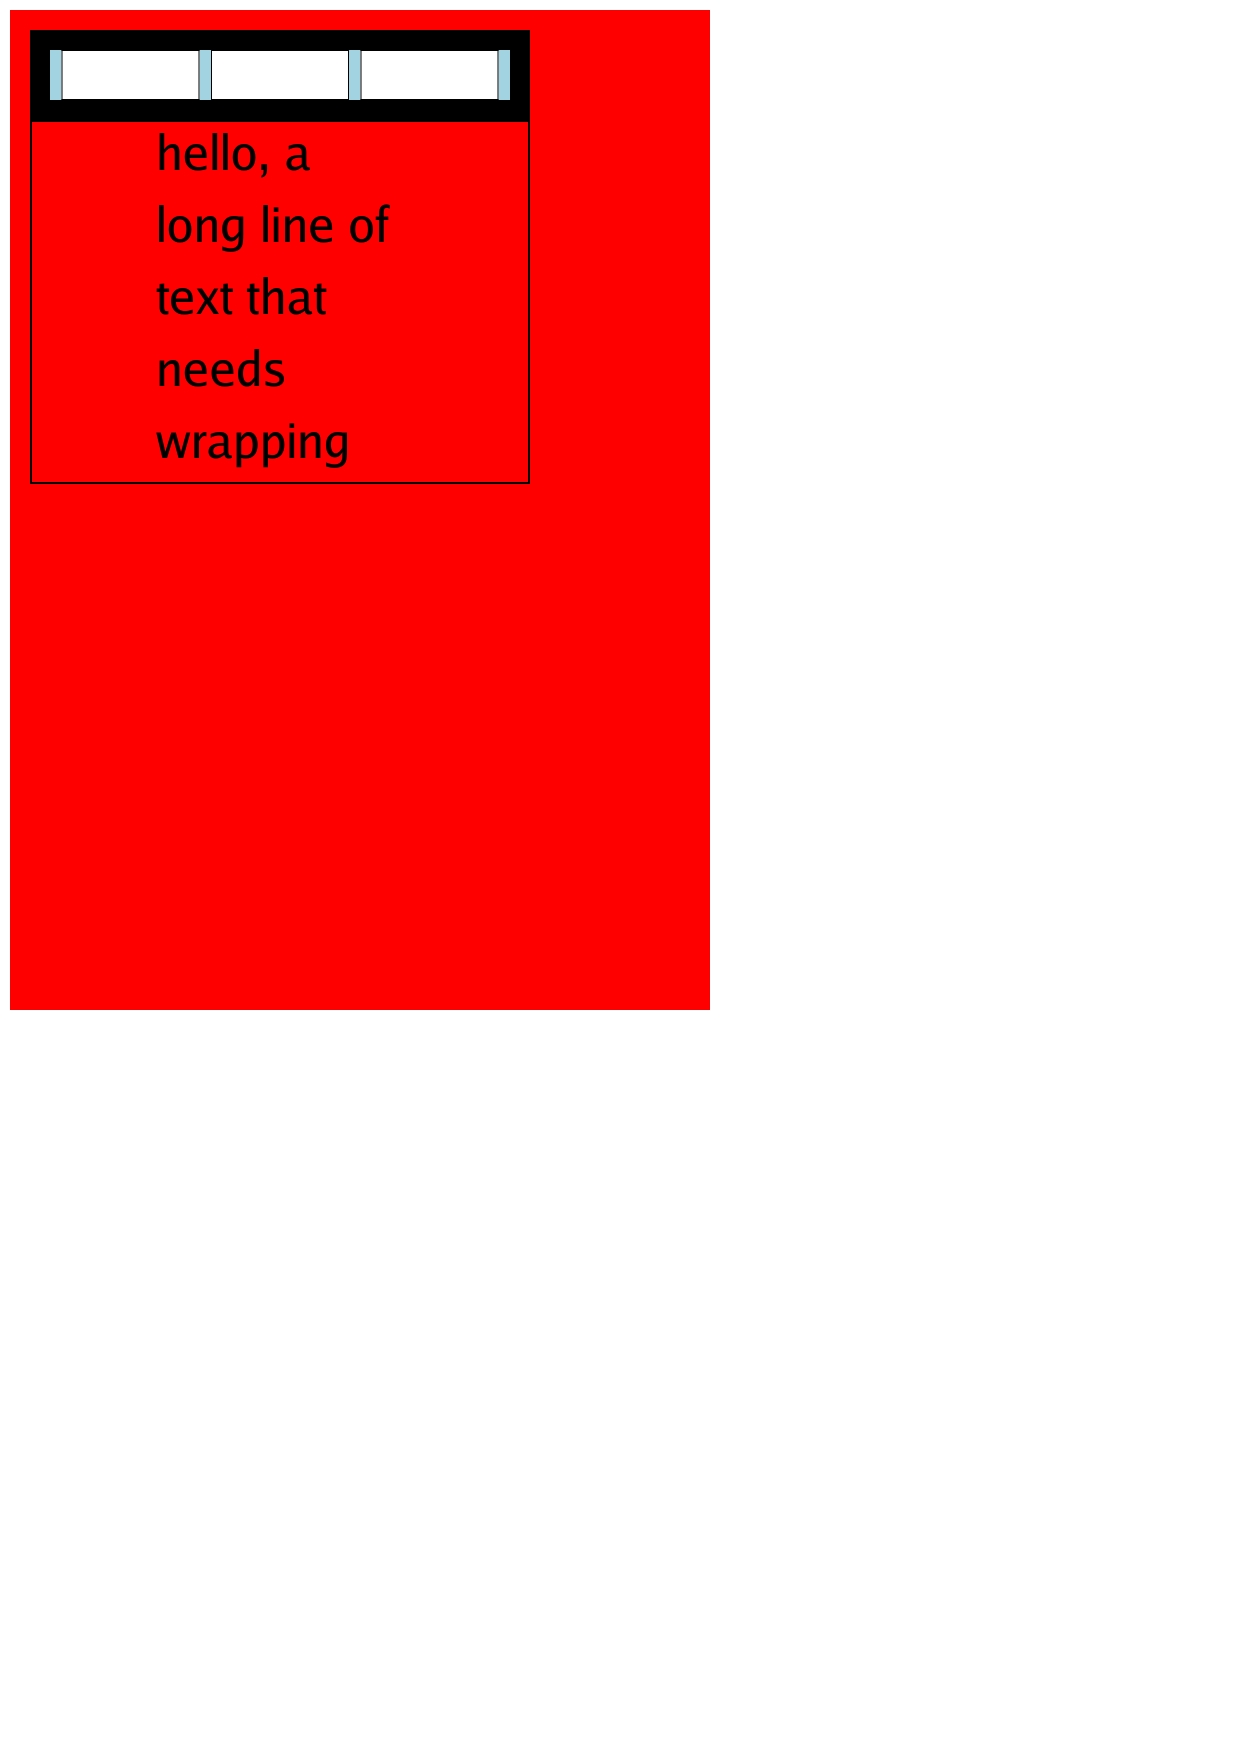
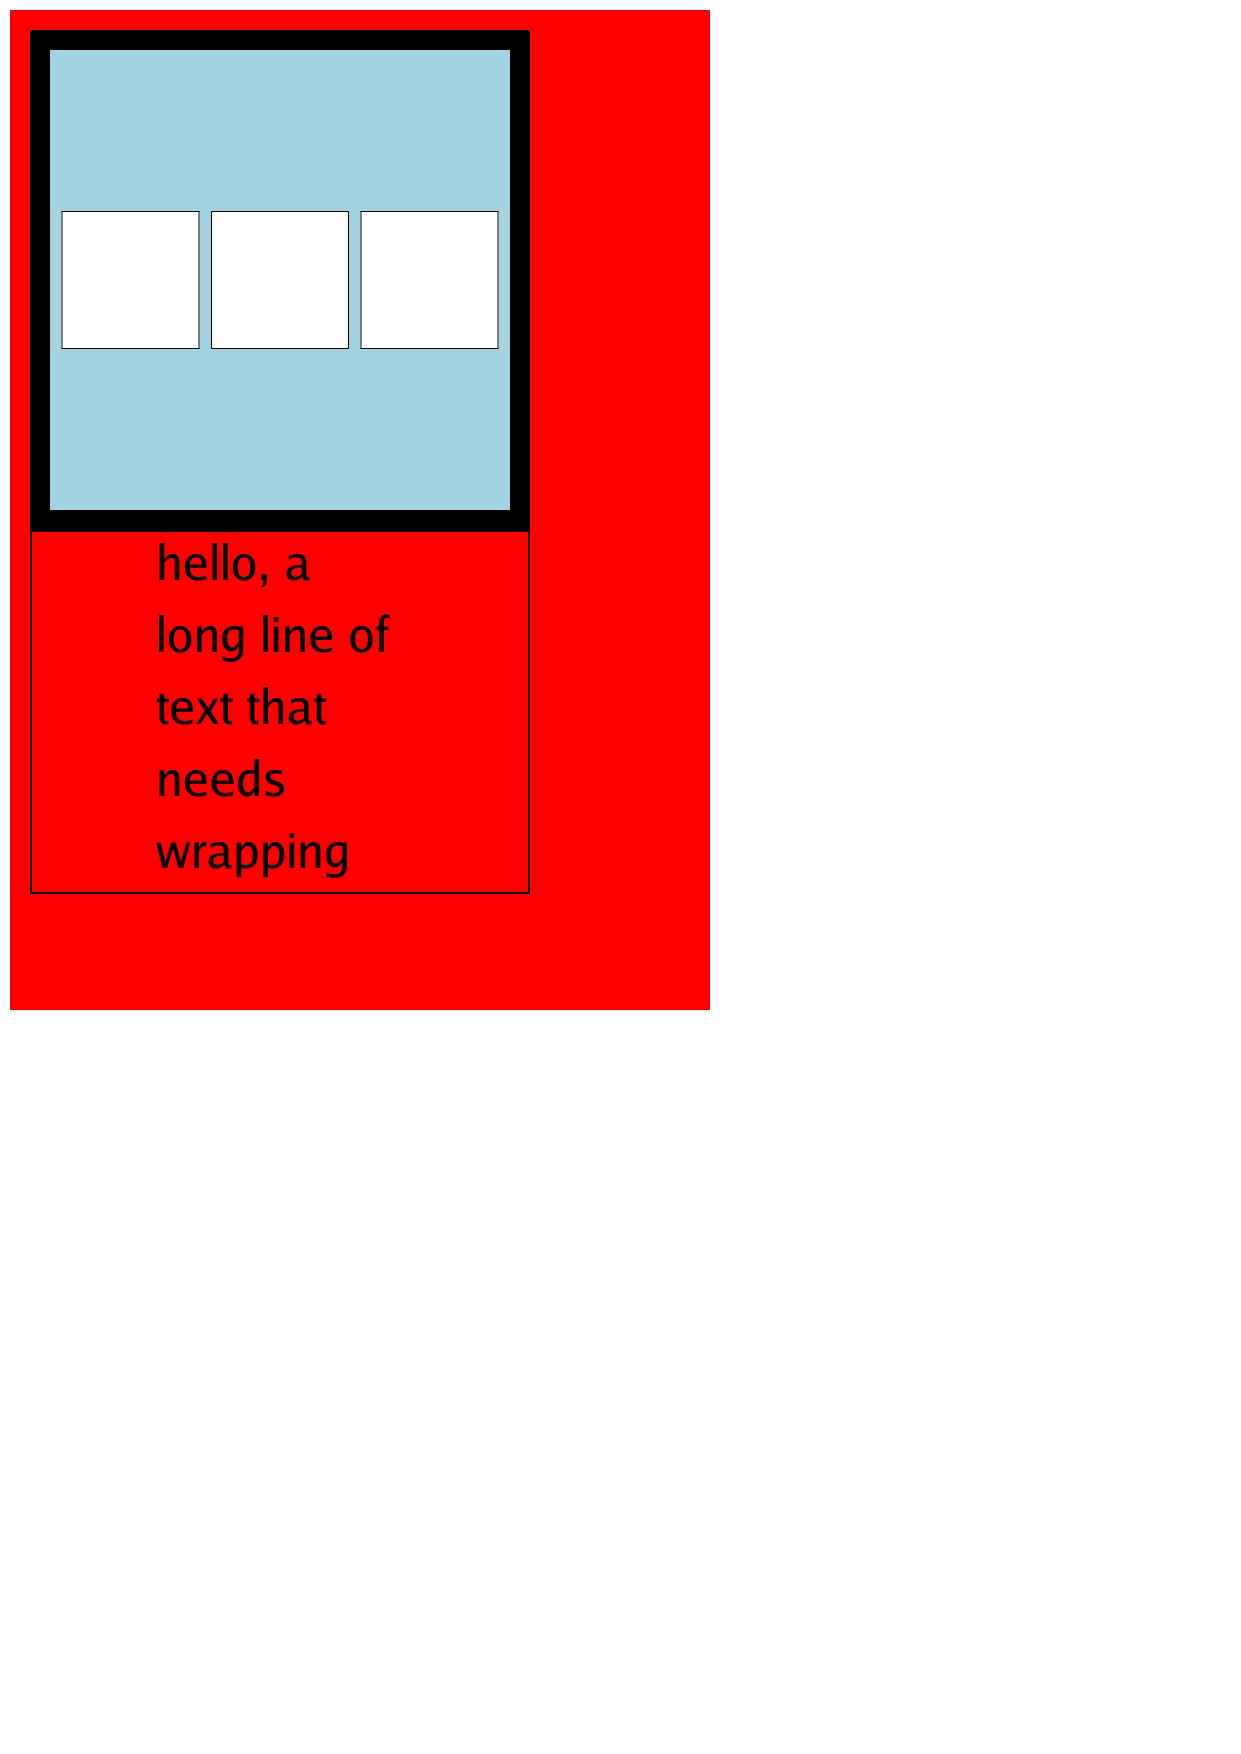
fix for border

Changed region(s): [[0.0, 0.0308, 0.4287, 0.5234]]

diff --git a/pkg/drawing/draw.go b/pkg/drawing/draw.go
@@ -24,7 +24,7 @@ func Draw() {
 	outer.borderColor = BLACK
 	outer.justifyContent = JustifyStart
 
-	middle := newContainer(500, 0, context)
+	middle := newContainer(500, 500, context)
 	middle.layout = Row
 	middle.backgroundColor = CYAN
 	middle.borderColor = BLACK
@@ -56,7 +56,7 @@ func Draw() {
 func createChildren(n int, container *Container) {
 	var children = make([]Displayable, n)
 	for i := 0; i < n; i++ {
-		c := newContainer(0.3, 50, container.context)
+		c := newContainer(0.3, 0.3, container.context)
 		c.backgroundColor = WHITE
 		c.borderColor = BLACK
 		c.borderWeight = 1
